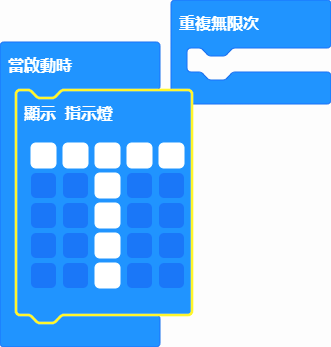
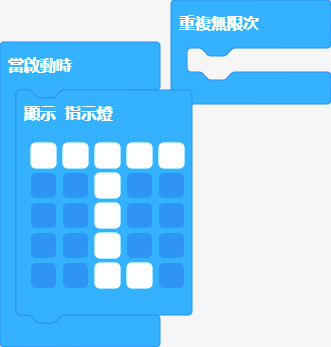
https://github.com/lzty634158/yahboom_mbit

diff --git a/main.ts b/main.ts
@@ -3,7 +3,7 @@ basic.showLeds(`
     . . # . .
     . . # . .
     . . # . .
-    . . # . .
+    . . # # .
     `)
 basic.forever(function () {
 	
